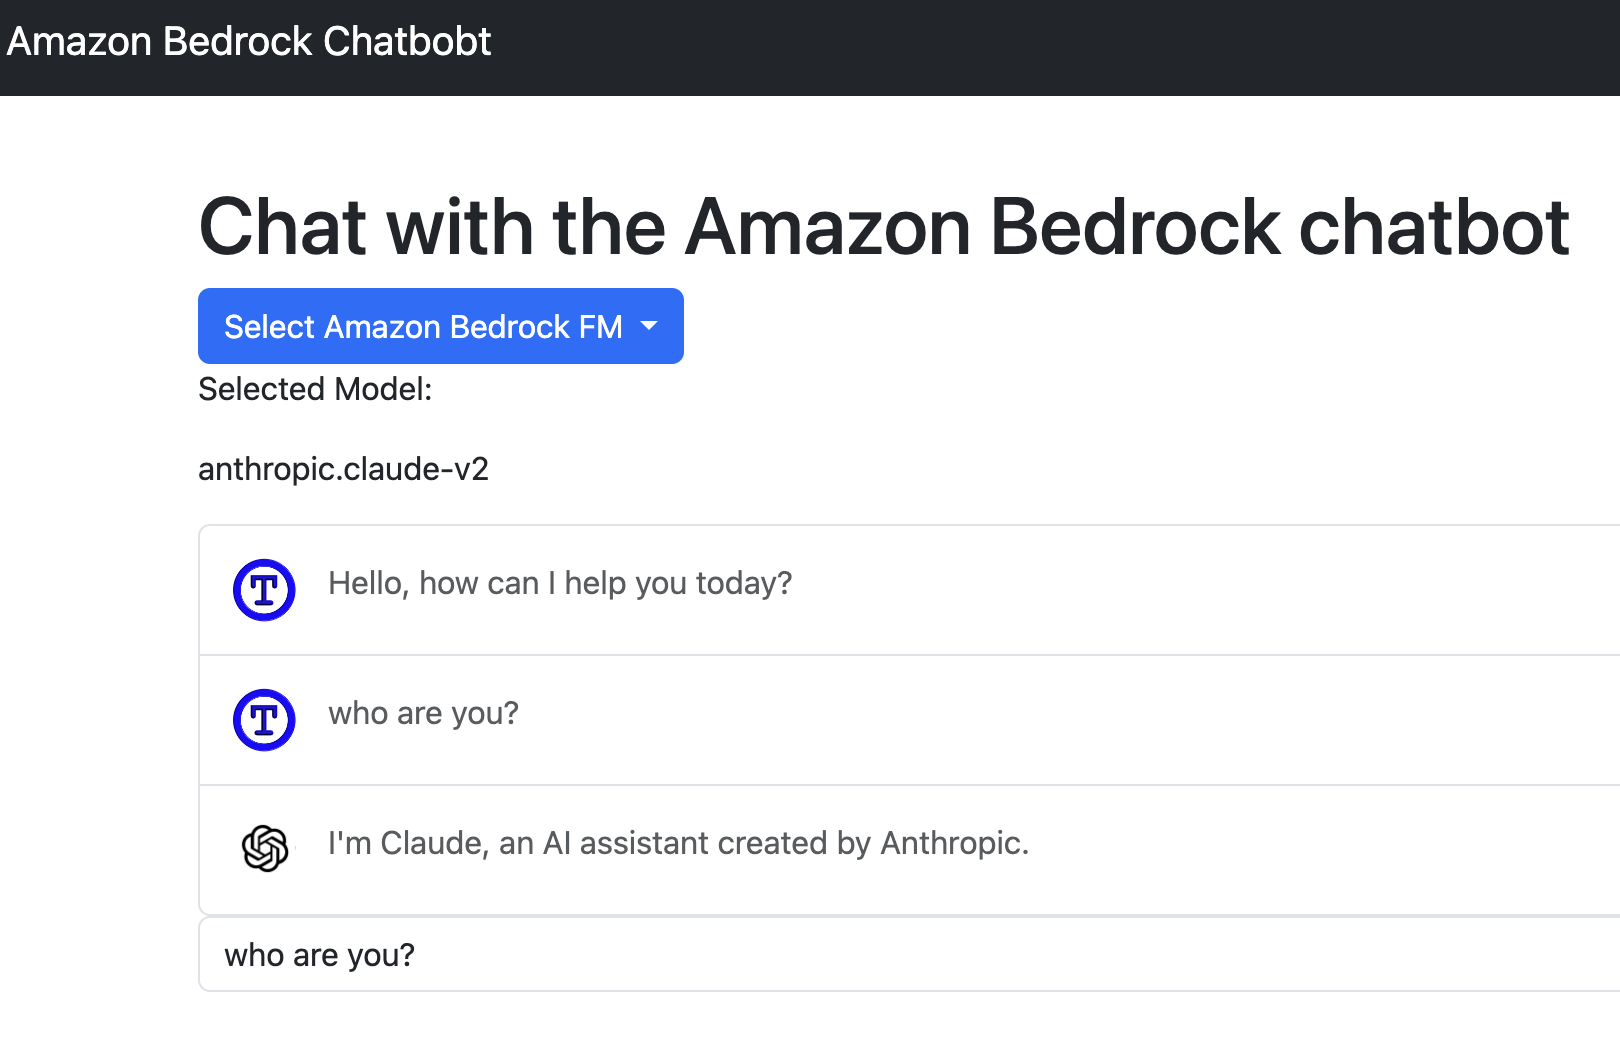
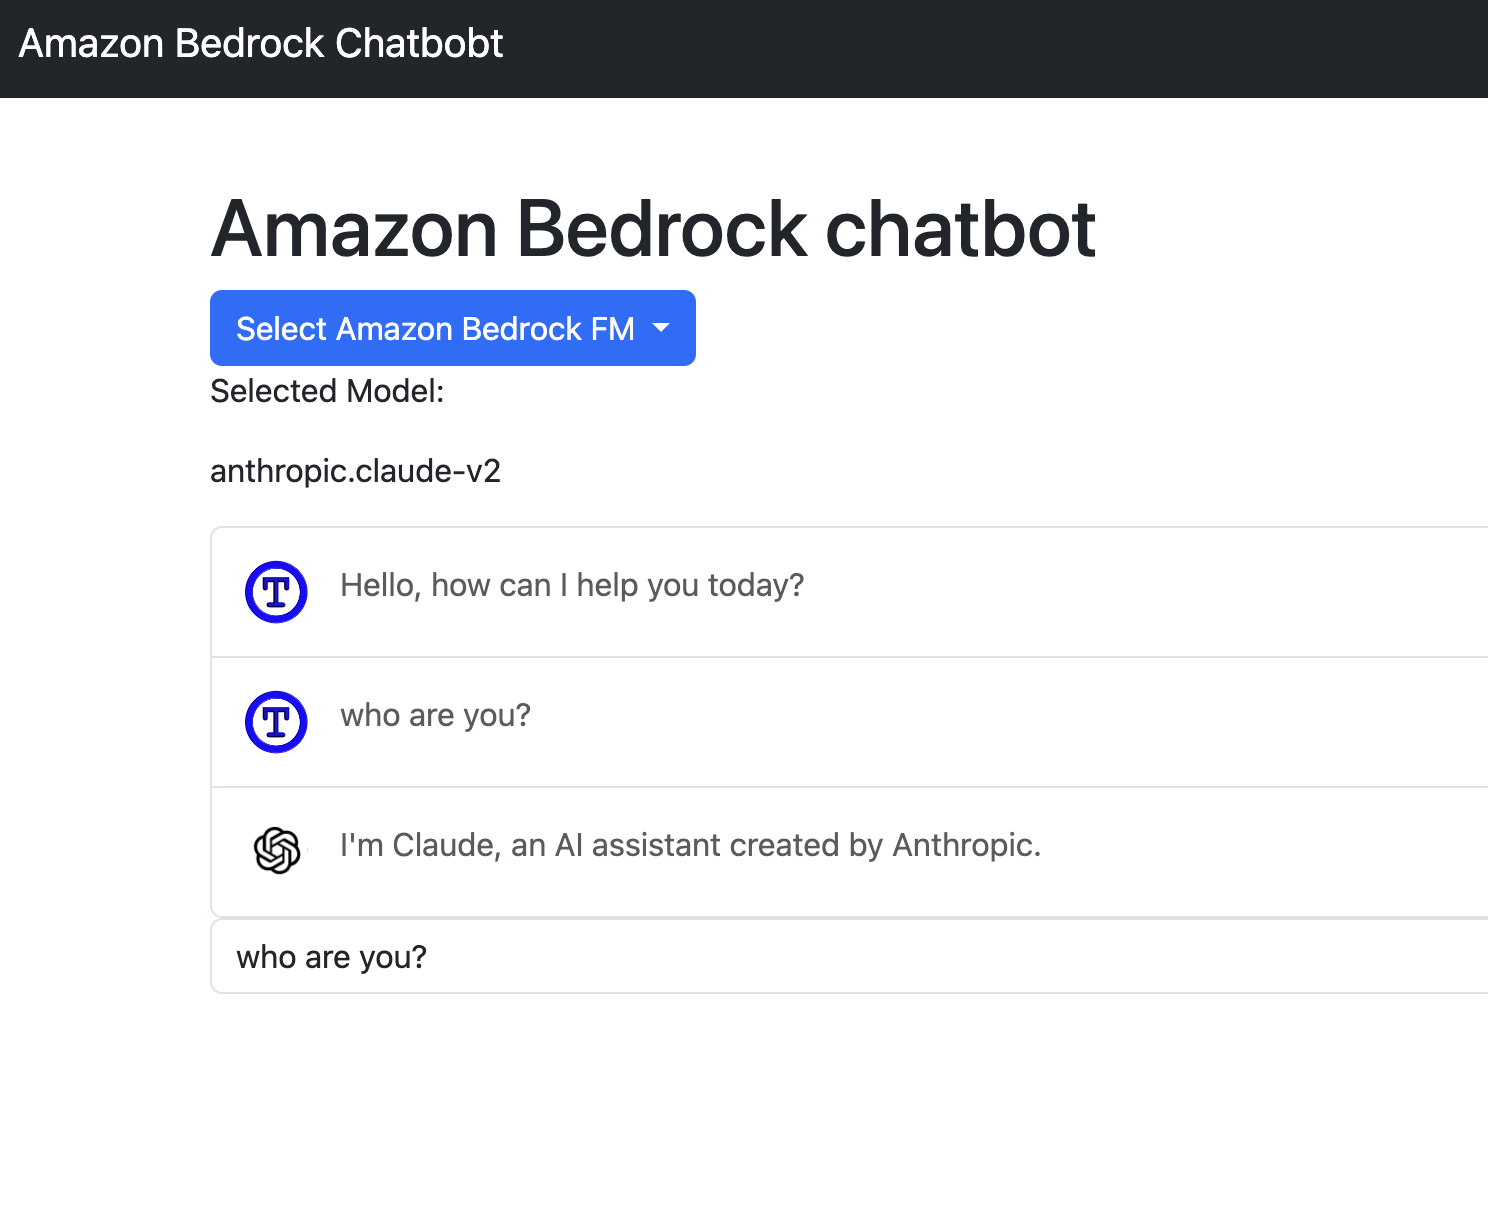
docs: update image

diff --git a/aws_bedrock_flask_chatbot/templates/index.html b/aws_bedrock_flask_chatbot/templates/index.html
@@ -39,7 +39,7 @@
       <div class="container">
         <br>
         <br>
-        <h1 class="mt-5">Chat with the Amazon Bedrock chatbot</h1>
+        <h1 class="mt-5">Amazon Bedrock chatbot</h1>
 
         <!-- Dropdown buttons that let a user select the Amazon bedrock FM -->
         <div class="btn-group">

diff --git a/README.md b/README.md
@@ -9,7 +9,7 @@ Use the Amazon Bedrock FMs to generate responses to user input.
 - [Python 3.10+](https://www.python.org/downloads/)
 - [Pip](https://pip.pypa.io/en/stable/installing/)
 - [AWS Account](https://aws.amazon.com/premiumsupport/knowledge-center/create-and-activate-aws-account/)
-- [Amazon Bedrock FM access](https://docs.aws.amazon.com/bedrock/latest/userguide/getting-started.html
+- [Amazon Bedrock foundation model access](https://docs.aws.amazon.com/bedrock/latest/userguide/getting-started.html)
 
 ## Getting Started
 
